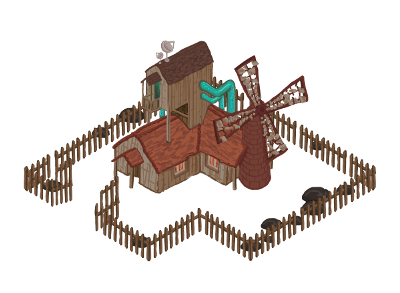
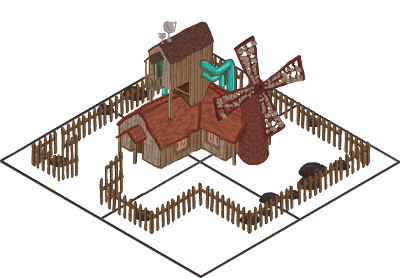
[#11] New farm and coins added (credits to David)

Changed region(s): [[0.0, 0.0576, 1.0, 0.9496], [0.48, 0.9209, 0.6, 1.0], [0.45, 0.9496, 0.48, 0.9784]]

diff --git a/Spacefarm/assets/www/farming/sceneMap.js b/Spacefarm/assets/www/farming/sceneMap.js
@@ -27,7 +27,7 @@ farming.SceneMap.prototype.settings = {
     mapSize: 20,
     tiles: {
         width: 200,
-        height: 106
+        height: 116
     },
     controls: {
         height: 30
@@ -72,7 +72,7 @@ farming.SceneMap.prototype.drawLand = function () {
      }*/
     var middle = this.calculate('middleTile');
 
-    var farm = new lime.Sprite().setAnchorPoint(0.5, 0.70).setSize(400, 293).setFill('images/farm.png');
+    var farm = new lime.Sprite().setAnchorPoint(0.25, 0.579).setSize(400, 278).setFill('images/farm.png');
 
     var min = 0;
     var max = 0;
@@ -95,9 +95,8 @@ farming.SceneMap.prototype.drawLand = function () {
             }
         }
     }
-    for (var x = middle.x-2; x < middle.x+2; x++) {
-        for (var y = middle.y-2; y < middle.y+2; y++) {
-            if(x == middle.x+1 && y == middle.y+1) continue;
+    for (var x = middle.x; x < middle.x+2; x++) {
+        for (var y = middle.y-1; y < middle.y+1; y++) {
             this.tiles[x][y].disable();
         }
     }
@@ -142,9 +141,12 @@ farming.SceneMap.prototype.drawControls = function () {
 
 
     // Money
+    this.moneyImage = new lime.Sprite().setFill('images/coin_small/0.png')
+        .setSize(25, 25).setPosition(this.game.screen.width-90, this.game.screen.height - this.settings.controls.height / 2);
     this.moneyLabel = new lime.Label().setFontColor('#E8FC08')
         .setPosition(this.game.screen.width-50, this.game.screen.height - this.settings.controls.height / 2);
     //updating money indicator
+    this.controlsLayer.appendChild(this.moneyImage);
     this.controlsLayer.appendChild(this.moneyLabel);
     this.updateControls();
     
@@ -179,4 +181,12 @@ farming.SceneMap.prototype.isoToTwoD = function (x, y) {
         (2 * y + x) / 2,
         (2 * y - x) / 2
     );
+}
+farming.SceneMap.prototype.moneyAnimation = function (amount) {
+    var animation = new lime.animation.KeyframeAnimation().setDelay(0.05);
+    for(var i = 5; i >= 0; i--) {
+        animation.addFrame('images/coin_small/'+i+'.png');
+    }
+    animation.setLooping(false);
+    this.moneyImage.runAction(animation);
 }

diff --git a/Spacefarm/assets/www/farming/game.js b/Spacefarm/assets/www/farming/game.js
@@ -82,10 +82,12 @@ farming.Game.prototype.hideDetails = function(){
 // todo
 
 farming.Game.prototype.addCoins = function(amount) {
+    this.sceneMap.moneyAnimation(amount);
     this.player.coins += amount;
     this.sceneMap.updateControls();
 }
 farming.Game.prototype.removeCoins = function(amount) {
+    this.sceneMap.moneyAnimation(amount);
     if(this.player.coins < amount) return false;
     this.player.coins -= amount;
     this.sceneMap.updateControls();
